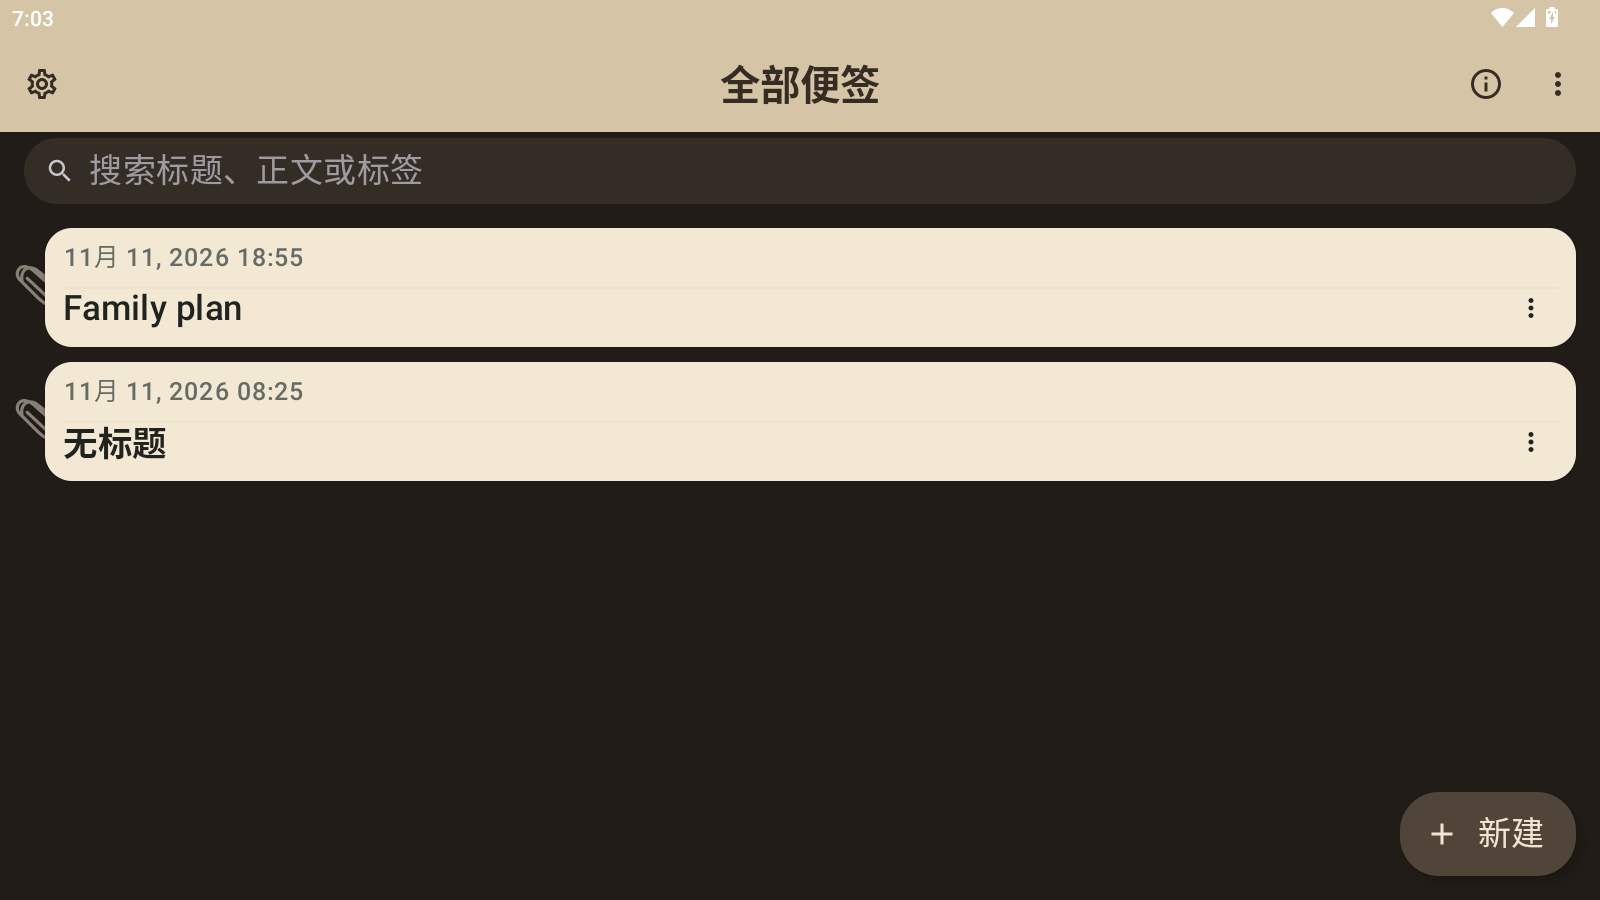
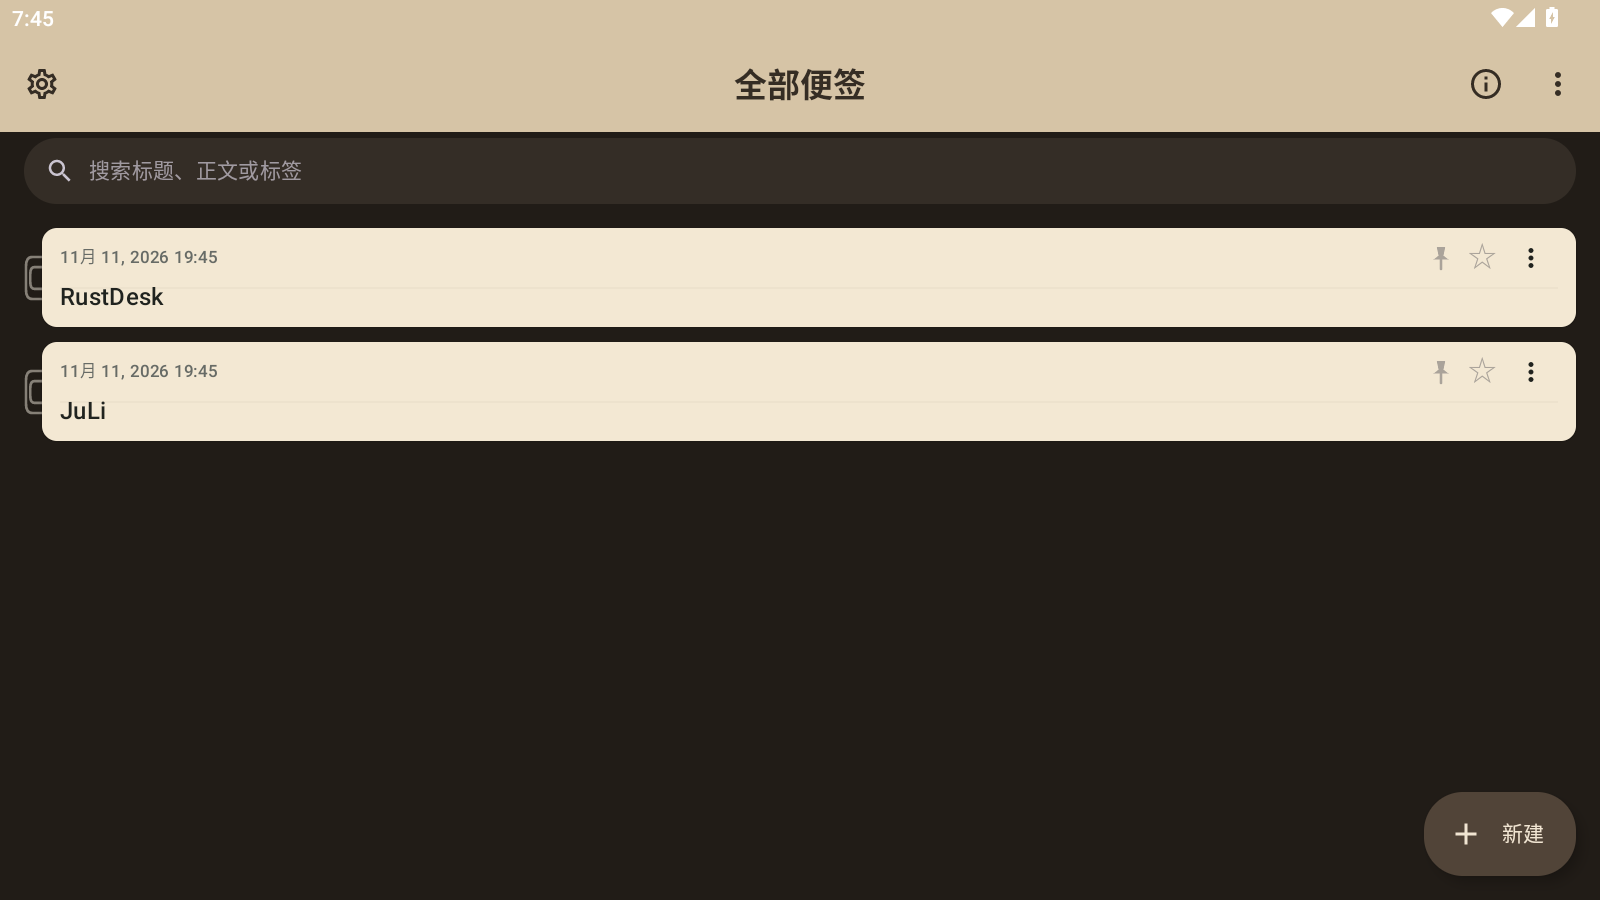
feat: align note list with reverse-engineered interactions

diff --git a/app/src/main/java/io/github/latticenotes/ui/HomeScreen.kt b/app/src/main/java/io/github/latticenotes/ui/HomeScreen.kt
@@ -9,6 +9,7 @@ import androidx.compose.foundation.background
 import androidx.compose.foundation.border
 import androidx.compose.foundation.clickable
 import androidx.compose.foundation.combinedClickable
+import androidx.compose.foundation.gestures.detectTapGestures
 import androidx.compose.foundation.layout.Arrangement
 import androidx.compose.foundation.layout.Box
 import androidx.compose.foundation.layout.Column
@@ -17,7 +18,6 @@ import androidx.compose.foundation.layout.Spacer
 import androidx.compose.foundation.layout.fillMaxSize
 import androidx.compose.foundation.layout.fillMaxWidth
 import androidx.compose.foundation.layout.height
-import androidx.compose.foundation.layout.offset
 import androidx.compose.foundation.layout.padding
 import androidx.compose.foundation.layout.size
 import androidx.compose.foundation.layout.width
@@ -74,12 +74,13 @@ import androidx.compose.ui.Alignment
 import androidx.compose.ui.Modifier
 import androidx.compose.ui.draw.clip
 import androidx.compose.ui.draw.drawBehind
-import androidx.compose.ui.draw.rotate
+import androidx.compose.ui.geometry.Offset
 import androidx.compose.ui.graphics.Color
 import androidx.compose.ui.graphics.Path
 import androidx.compose.ui.graphics.SolidColor
 import androidx.compose.ui.graphics.StrokeCap
 import androidx.compose.ui.graphics.drawscope.Stroke
+import androidx.compose.ui.input.pointer.pointerInput
 import androidx.compose.ui.platform.LocalContext
 import androidx.compose.ui.text.font.FontWeight
 import androidx.compose.ui.text.TextStyle
@@ -88,6 +89,7 @@ import androidx.compose.ui.text.style.TextOverflow
 import androidx.compose.ui.focus.FocusRequester
 import androidx.compose.ui.focus.focusRequester
 import androidx.compose.ui.unit.dp
+import androidx.compose.ui.unit.sp
 import androidx.lifecycle.compose.collectAsStateWithLifecycle
 import io.github.latticenotes.data.FolderEntity
 import io.github.latticenotes.data.NoteEntity
@@ -813,14 +815,12 @@ private fun NoteCard(
         PaperclipGlyph(
             modifier = Modifier
                 .align(Alignment.CenterStart)
-                .offset(x = (-5).dp)
-                .rotate(-90f)
-                .size(34.dp),
+                .size(width = 22.dp, height = 56.dp),
         )
         Card(
             modifier = Modifier
                 .fillMaxWidth()
-                .padding(start = 14.dp)
+                .padding(start = 12.dp)
                 .combinedClickable(
                     onClick = onClick,
                     onLongClick = { menuOpen = true },
@@ -829,6 +829,7 @@ private fun NoteCard(
                 containerColor = Color(0xFFF3E8D3),
                 contentColor = Color(0xFF20231F),
             ),
+            shape = RoundedCornerShape(10.dp),
             elevation = CardDefaults.cardElevation(defaultElevation = 1.dp),
         ) {
             Column(
@@ -848,30 +849,39 @@ private fun NoteCard(
                         }
                     },
             ) {
-                Text(
-                    text = formatTimestamp(note.updatedAt),
-                    style = MaterialTheme.typography.labelSmall,
-                    color = Color(0xFF676B66),
-                )
-                Spacer(Modifier.height(3.dp))
-                Row(verticalAlignment = Alignment.CenterVertically) {
+                Row(
+                    modifier = Modifier
+                        .fillMaxWidth()
+                        .height(24.dp),
+                    verticalAlignment = Alignment.CenterVertically,
+                ) {
                     Text(
-                        text = note.title.ifBlank { "无标题" },
+                        text = formatTimestamp(note.updatedAt),
                         modifier = Modifier.weight(1f),
-                        style = MaterialTheme.typography.titleMedium,
-                        fontWeight = FontWeight.SemiBold,
+                        style = MaterialTheme.typography.labelSmall,
+                        color = Color(0xFF676B66),
                         maxLines = 1,
-                        overflow = TextOverflow.Ellipsis,
                     )
-                    if (note.pinned) {
-                        Icon(
-                            Icons.Outlined.Star,
-                            contentDescription = "已置顶",
-                            modifier = Modifier.size(18.dp),
-                            tint = MaterialTheme.colorScheme.primary,
-                        )
-                        Spacer(Modifier.width(8.dp))
-                    }
+                    PinGlyph(
+                        active = note.pinned,
+                        modifier = Modifier
+                            .size(17.dp)
+                            .pointerInput(Unit) {
+                                detectTapGestures(onTap = { onTogglePin() })
+                            },
+                    )
+                    Spacer(Modifier.width(5.dp))
+                    Text(
+                        text = if (note.starred) "★" else "☆",
+                        modifier = Modifier
+                            .pointerInput(Unit) {
+                                detectTapGestures(onTap = { onToggleStar() })
+                            }
+                            .padding(horizontal = 4.dp),
+                        color = if (note.starred) Color(0xFFE4AE27) else Color(0xFFAAA39A),
+                        fontSize = 19.sp,
+                        lineHeight = 20.sp,
+                    )
                     Box {
                         IconButton(
                             onClick = { menuOpen = true },
@@ -966,8 +976,45 @@ private fun NoteCard(
                         }
                     }
                 }
+                Spacer(Modifier.height(2.dp))
+                Text(
+                    text = note.title.ifBlank { "无标题" },
+                    modifier = Modifier.fillMaxWidth(),
+                    style = MaterialTheme.typography.titleMedium,
+                    fontWeight = FontWeight.SemiBold,
+                    maxLines = 1,
+                    overflow = TextOverflow.Ellipsis,
+                )
             }
         }
+    }
+}
+
+@Composable
+private fun PinGlyph(active: Boolean, modifier: Modifier = Modifier) {
+    val color = if (active) {
+        MaterialTheme.colorScheme.primary
+    } else {
+        Color(0xFFAAA39A)
+    }
+    Canvas(modifier) {
+        val path = Path().apply {
+            moveTo(size.width * 0.34f, size.height * 0.08f)
+            lineTo(size.width * 0.66f, size.height * 0.08f)
+            lineTo(size.width * 0.60f, size.height * 0.40f)
+            lineTo(size.width * 0.78f, size.height * 0.56f)
+            lineTo(size.width * 0.22f, size.height * 0.56f)
+            lineTo(size.width * 0.40f, size.height * 0.40f)
+            close()
+        }
+        drawPath(path, color)
+        drawLine(
+            color = color,
+            start = Offset(size.width * 0.50f, size.height * 0.56f),
+            end = Offset(size.width * 0.50f, size.height * 0.92f),
+            strokeWidth = 1.7.dp.toPx(),
+            cap = StrokeCap.Round,
+        )
     }
 }
 
@@ -977,69 +1024,40 @@ private fun PaperclipGlyph(
     color: Color = Color(0xFF969087).copy(alpha = 0.86f),
 ) {
     Canvas(modifier) {
-        val stroke = 2.1.dp.toPx()
+        val stroke = 1.8.dp.toPx()
         val path = Path().apply {
-            moveTo(size.width * 0.62f, size.height * 0.10f)
-            cubicTo(
-                size.width * 0.82f,
-                size.height * 0.06f,
-                size.width * 0.94f,
-                size.height * 0.19f,
-                size.width * 0.86f,
+            moveTo(size.width, size.height * 0.25f)
+            lineTo(size.width * 0.25f, size.height * 0.25f)
+            quadraticTo(
+                size.width * 0.06f,
+                size.height * 0.25f,
+                size.width * 0.06f,
                 size.height * 0.36f,
             )
-            lineTo(size.width * 0.48f, size.height * 0.86f)
-            cubicTo(
-                size.width * 0.39f,
-                size.height * 0.98f,
-                size.width * 0.22f,
-                size.height * 0.97f,
-                size.width * 0.16f,
-                size.height * 0.84f,
+            lineTo(size.width * 0.06f, size.height * 0.64f)
+            quadraticTo(
+                size.width * 0.06f,
+                size.height * 0.75f,
+                size.width * 0.25f,
+                size.height * 0.75f,
             )
-            cubicTo(
-                size.width * 0.08f,
-                size.height * 0.69f,
-                size.width * 0.17f,
-                size.height * 0.55f,
-                size.width * 0.28f,
-                size.height * 0.43f,
-            )
-            lineTo(size.width * 0.67f, size.height * 0.04f)
-            cubicTo(
-                size.width * 0.78f,
-                size.height * -0.04f,
-                size.width * 0.92f,
-                size.height * 0.03f,
-                size.width * 0.91f,
-                size.height * 0.16f,
-            )
-            cubicTo(
-                size.width * 0.90f,
-                size.height * 0.24f,
-                size.width * 0.85f,
-                size.height * 0.31f,
-                size.width * 0.79f,
+            lineTo(size.width, size.height * 0.75f)
+            moveTo(size.width, size.height * 0.37f)
+            lineTo(size.width * 0.32f, size.height * 0.37f)
+            quadraticTo(
+                size.width * 0.19f,
                 size.height * 0.37f,
+                size.width * 0.19f,
+                size.height * 0.45f,
             )
-            lineTo(size.width * 0.40f, size.height * 0.81f)
-            cubicTo(
-                size.width * 0.34f,
-                size.height * 0.88f,
-                size.width * 0.25f,
-                size.height * 0.86f,
-                size.width * 0.23f,
-                size.height * 0.78f,
+            lineTo(size.width * 0.19f, size.height * 0.55f)
+            quadraticTo(
+                size.width * 0.19f,
+                size.height * 0.63f,
+                size.width * 0.32f,
+                size.height * 0.63f,
             )
-            cubicTo(
-                size.width * 0.21f,
-                size.height * 0.72f,
-                size.width * 0.25f,
-                size.height * 0.66f,
-                size.width * 0.30f,
-                size.height * 0.61f,
-            )
-            lineTo(size.width * 0.68f, size.height * 0.20f)
+            lineTo(size.width, size.height * 0.63f)
         }
         drawPath(
             path = path,

diff --git a/docs/TESTING.md b/docs/TESTING.md
@@ -6,7 +6,7 @@ Tested on 2026-11-12 with:
 - JDK 21
 - Gradle 8.9
 - Android Gradle Plugin 8.7.3
-- 曲阳便签 `0.11.7` (`versionCode` 11007)
+- 曲阳便签 `0.11.8` (`versionCode` 11008)
 
 ## Automated checks
 
@@ -45,7 +45,7 @@ Result on 2026-11-12:
 - Nutstore Link-header pagination follows all `rel="next"` pages on the same server.
 - Remote-imported files are not uploaded again during the same sync.
 - Sync summary reports the actual number of Nutstore directory pages scanned.
-- Local APK versionCode is 11007 for version 0.11.7.
+- Local APK versionCode is 11008 for version 0.11.8.
 - WebDAV folder traversal includes nested subfolders and preserves relative Markdown paths.
 - The download-and-restore action shows the full sync result rather than a fixed success message.
 - Imported notes are written before their attachments, satisfying the SQLite foreign key.
@@ -93,6 +93,10 @@ Result on 2026-11-12:
 - The home header keeps its category action on the title itself without a trailing arrow control.
 - The home search field is a compact 44dp rounded capsule.
 - Home note cards have a custom-drawn paperclip at their left edge.
+- Static APK analysis confirmed the reference list item uses a 22×56dp clip, a 10dp card
+  radius, and persistent pin/star controls in the timestamp row.
+- The clean-room Compose list now exposes only the left half of the original clip geometry and
+  keeps independent pin/star actions plus the overflow menu.
 - Horizontal ruled-paper lines are drawn inside the scrollable document layer, so title, body,
   wrapped lines and paper rules move together at every scroll position.
 

diff --git a/README.md b/README.md
@@ -15,7 +15,8 @@
 - 普通文本、Markdown、待办三种便签模式
 - 标题、正文、标签、文件夹和自动保存
 - 主页固定搜索框
-- 首页采用圆角紧凑搜索栏、左侧回形针笔记卡片和无箭头分类标题
+- 首页采用圆角紧凑搜索栏、左侧半露回形针笔记卡片和无箭头分类标题
+- 笔记时间行常驻置顶与加星按钮，更多操作保留在右侧菜单
 - 编辑器撤销/重做历史
 - 可视化格式工具栏：标题、居中、列表、粗体、引用和待办只显示效果，不暴露 Markdown 代码
 - 信纸编辑器以标题为第一行，回车直接进入正文；格线行高随字号同步，并与文字一起滚动
@@ -105,8 +106,8 @@ app/build/outputs/apk/debug/app-debug.apk
 推送版本标签会触发 `.github/workflows/release.yml`：
 
 ```bash
-git tag v0.11.7
-git push origin v0.11.7
+git tag v0.11.8
+git push origin v0.11.8
 ```
 
 Action 会自动测试、执行 Lint、构建并签名 Release APK、验签、生成 SHA-256，然后创建带 APK 的 GitHub Release。

diff --git a/docs/FEATURE_PARITY.md b/docs/FEATURE_PARITY.md
@@ -30,7 +30,7 @@ account services, or paid backend behavior.
 | Ruled paper editor | Yes, rules scroll with document content |
 | Title-first document flow | Yes, Enter moves from the title into the body |
 | Fixed home search | Yes |
-| Paperclip home list | Yes, with a compact rounded search field |
+| Paperclip home list | Yes, half-exposed clip with persistent pin/star actions |
 | Undo and redo history | Yes |
 | Visible rich-text formatting toolbar | Yes, Markdown remains hidden in the editor |
 | Self-contained HTML export | Yes |
